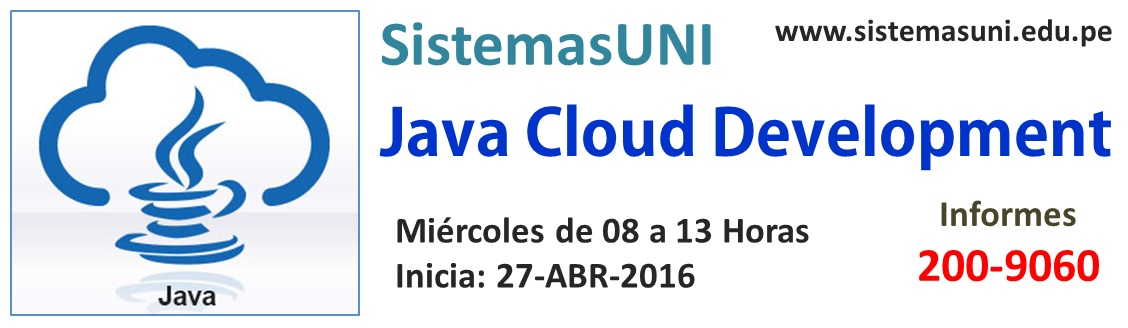
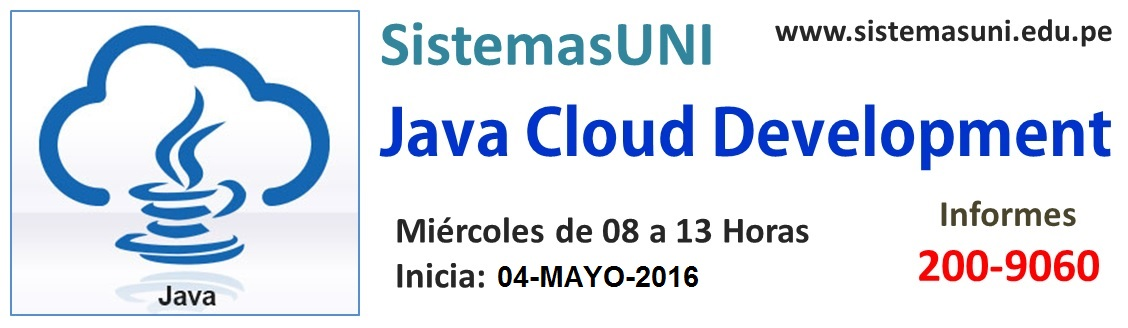
Repositorio.

Changed region(s): [[0.4344, 0.7927, 0.6206, 0.8841]]

diff --git a/README.md b/README.md
@@ -5,7 +5,7 @@
 
 - Lugar: SistemasUNI
 - Horario: Miercoles de 8 a 13 Horas
-- Inicio: 27-ABR-2016
+- Inicio: 04-MAY-2016
 - Dirección: https://goo.gl/maps/98vwAt9NZMU2
 - Contenido: http://www.sistemasuni.edu.pe/dcursos/cjavadessolnube.html
 - Pagina: http://gcoronelc.github.io/SISTUNI_JAVA_CLOUD_001/
@@ -19,4 +19,4 @@
 
 # CLASE 01
 
-- Fecha: 27-ABR-2016
+- Fecha: 04-MAY-2016
